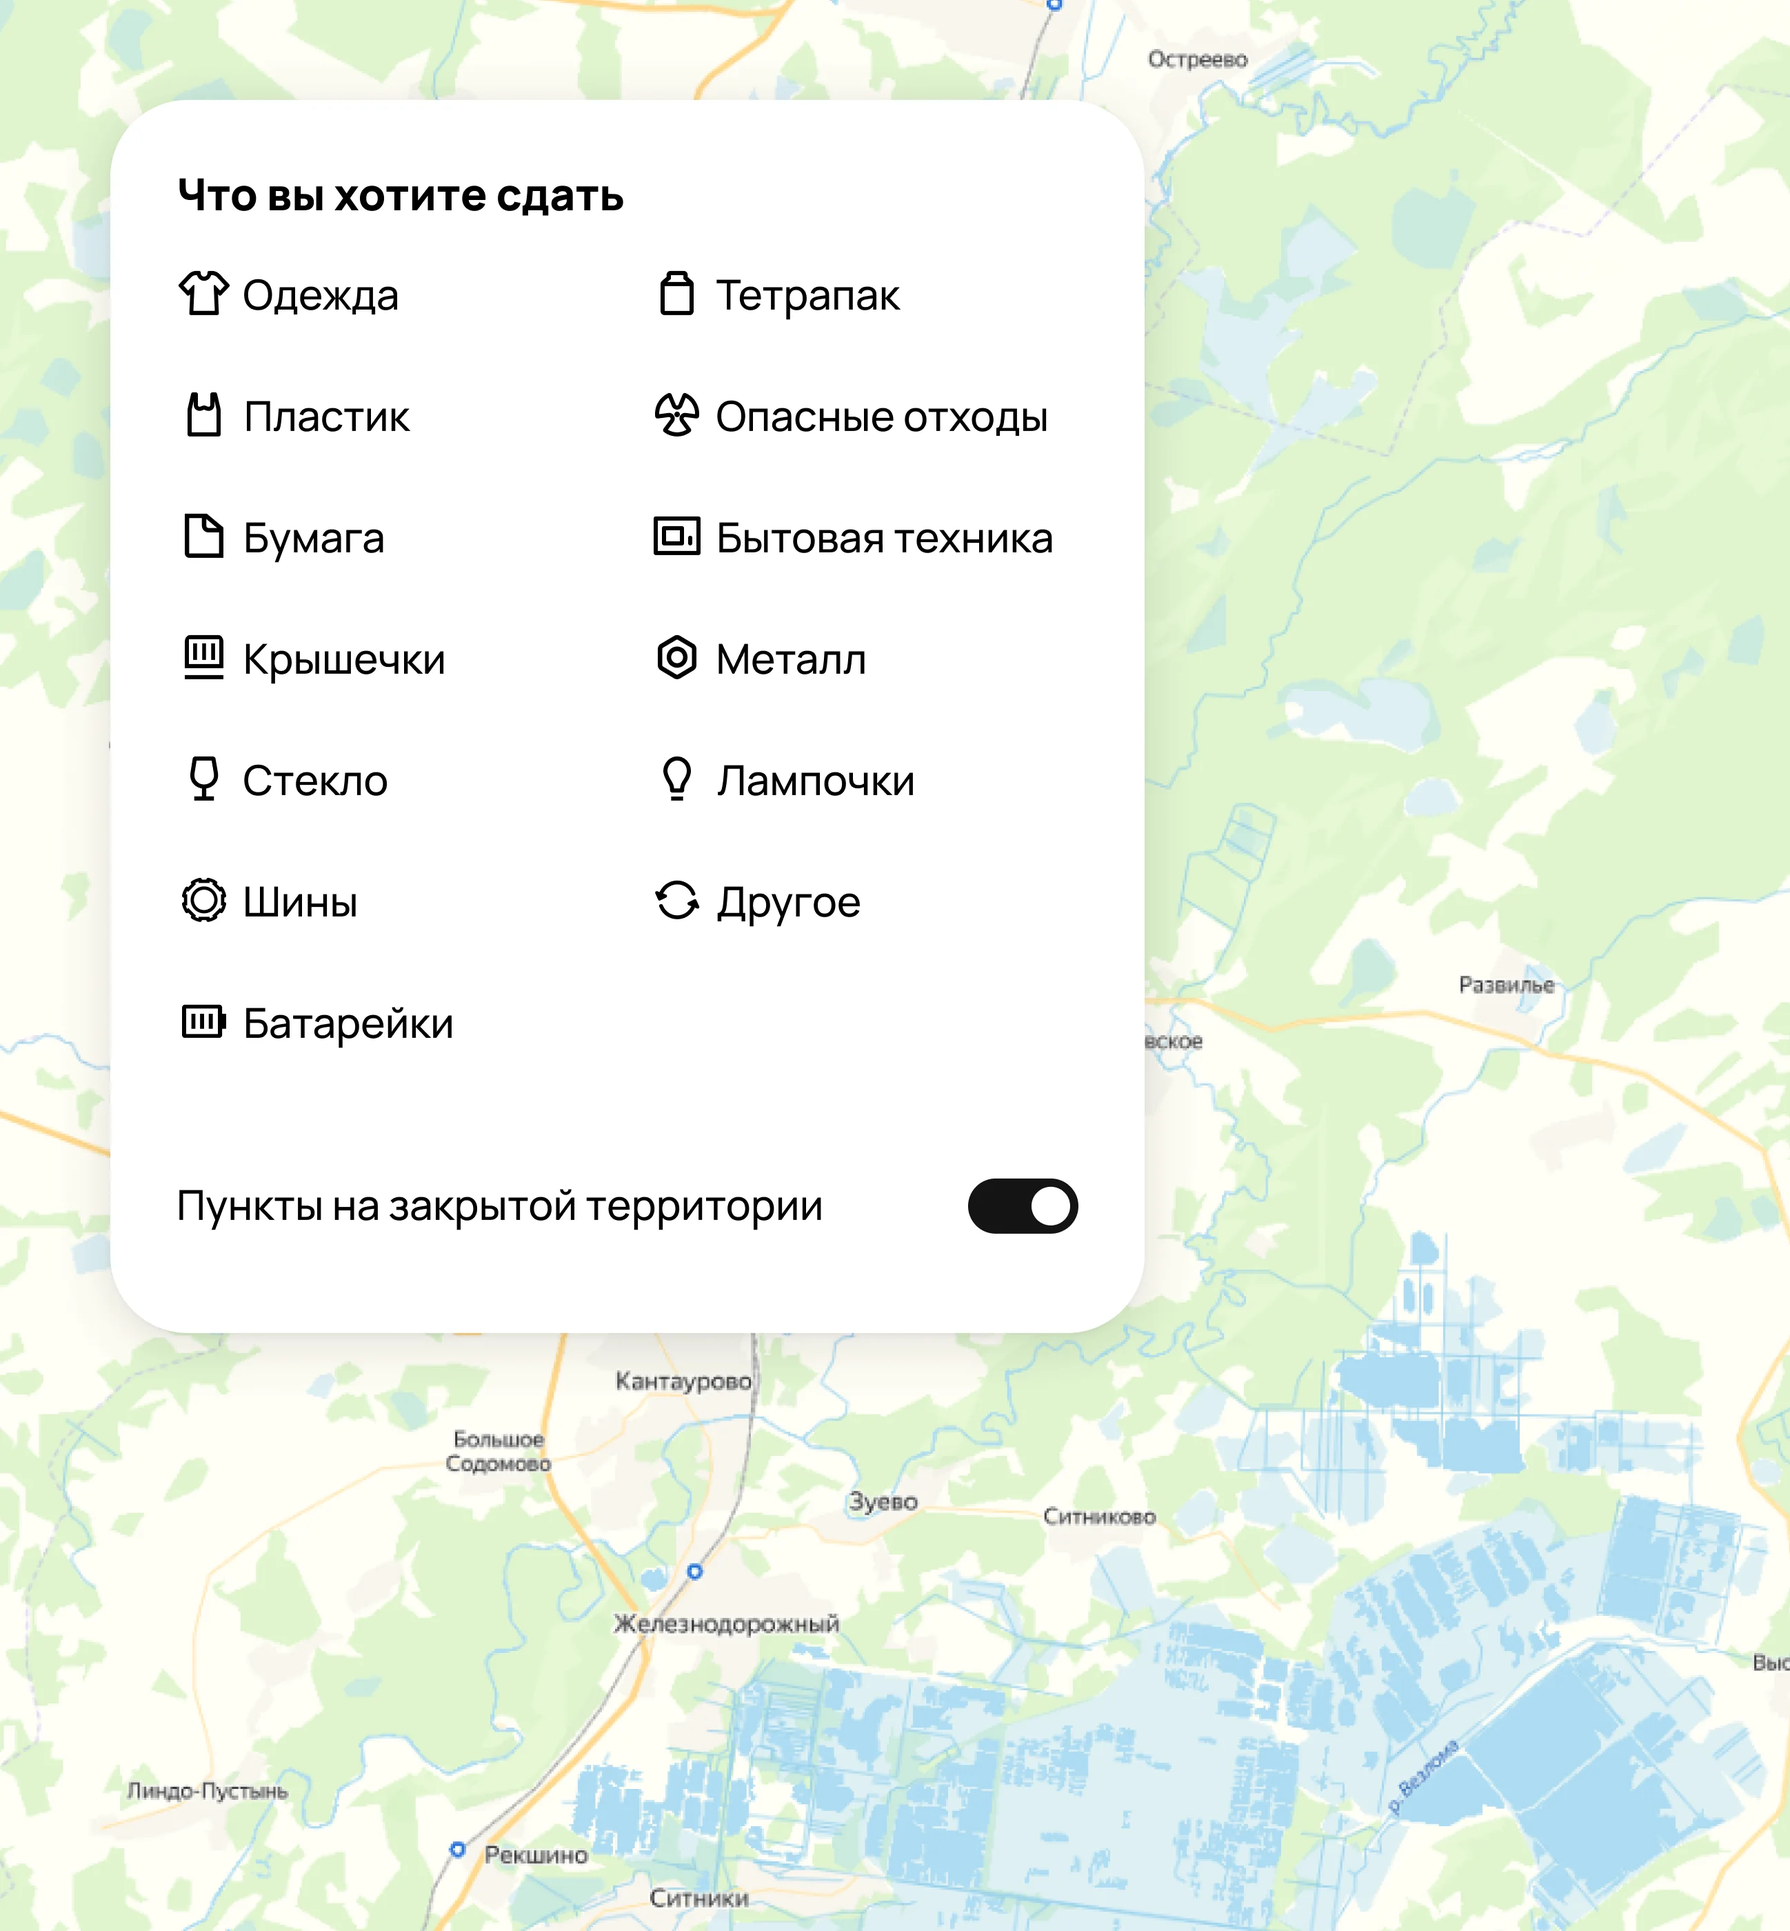
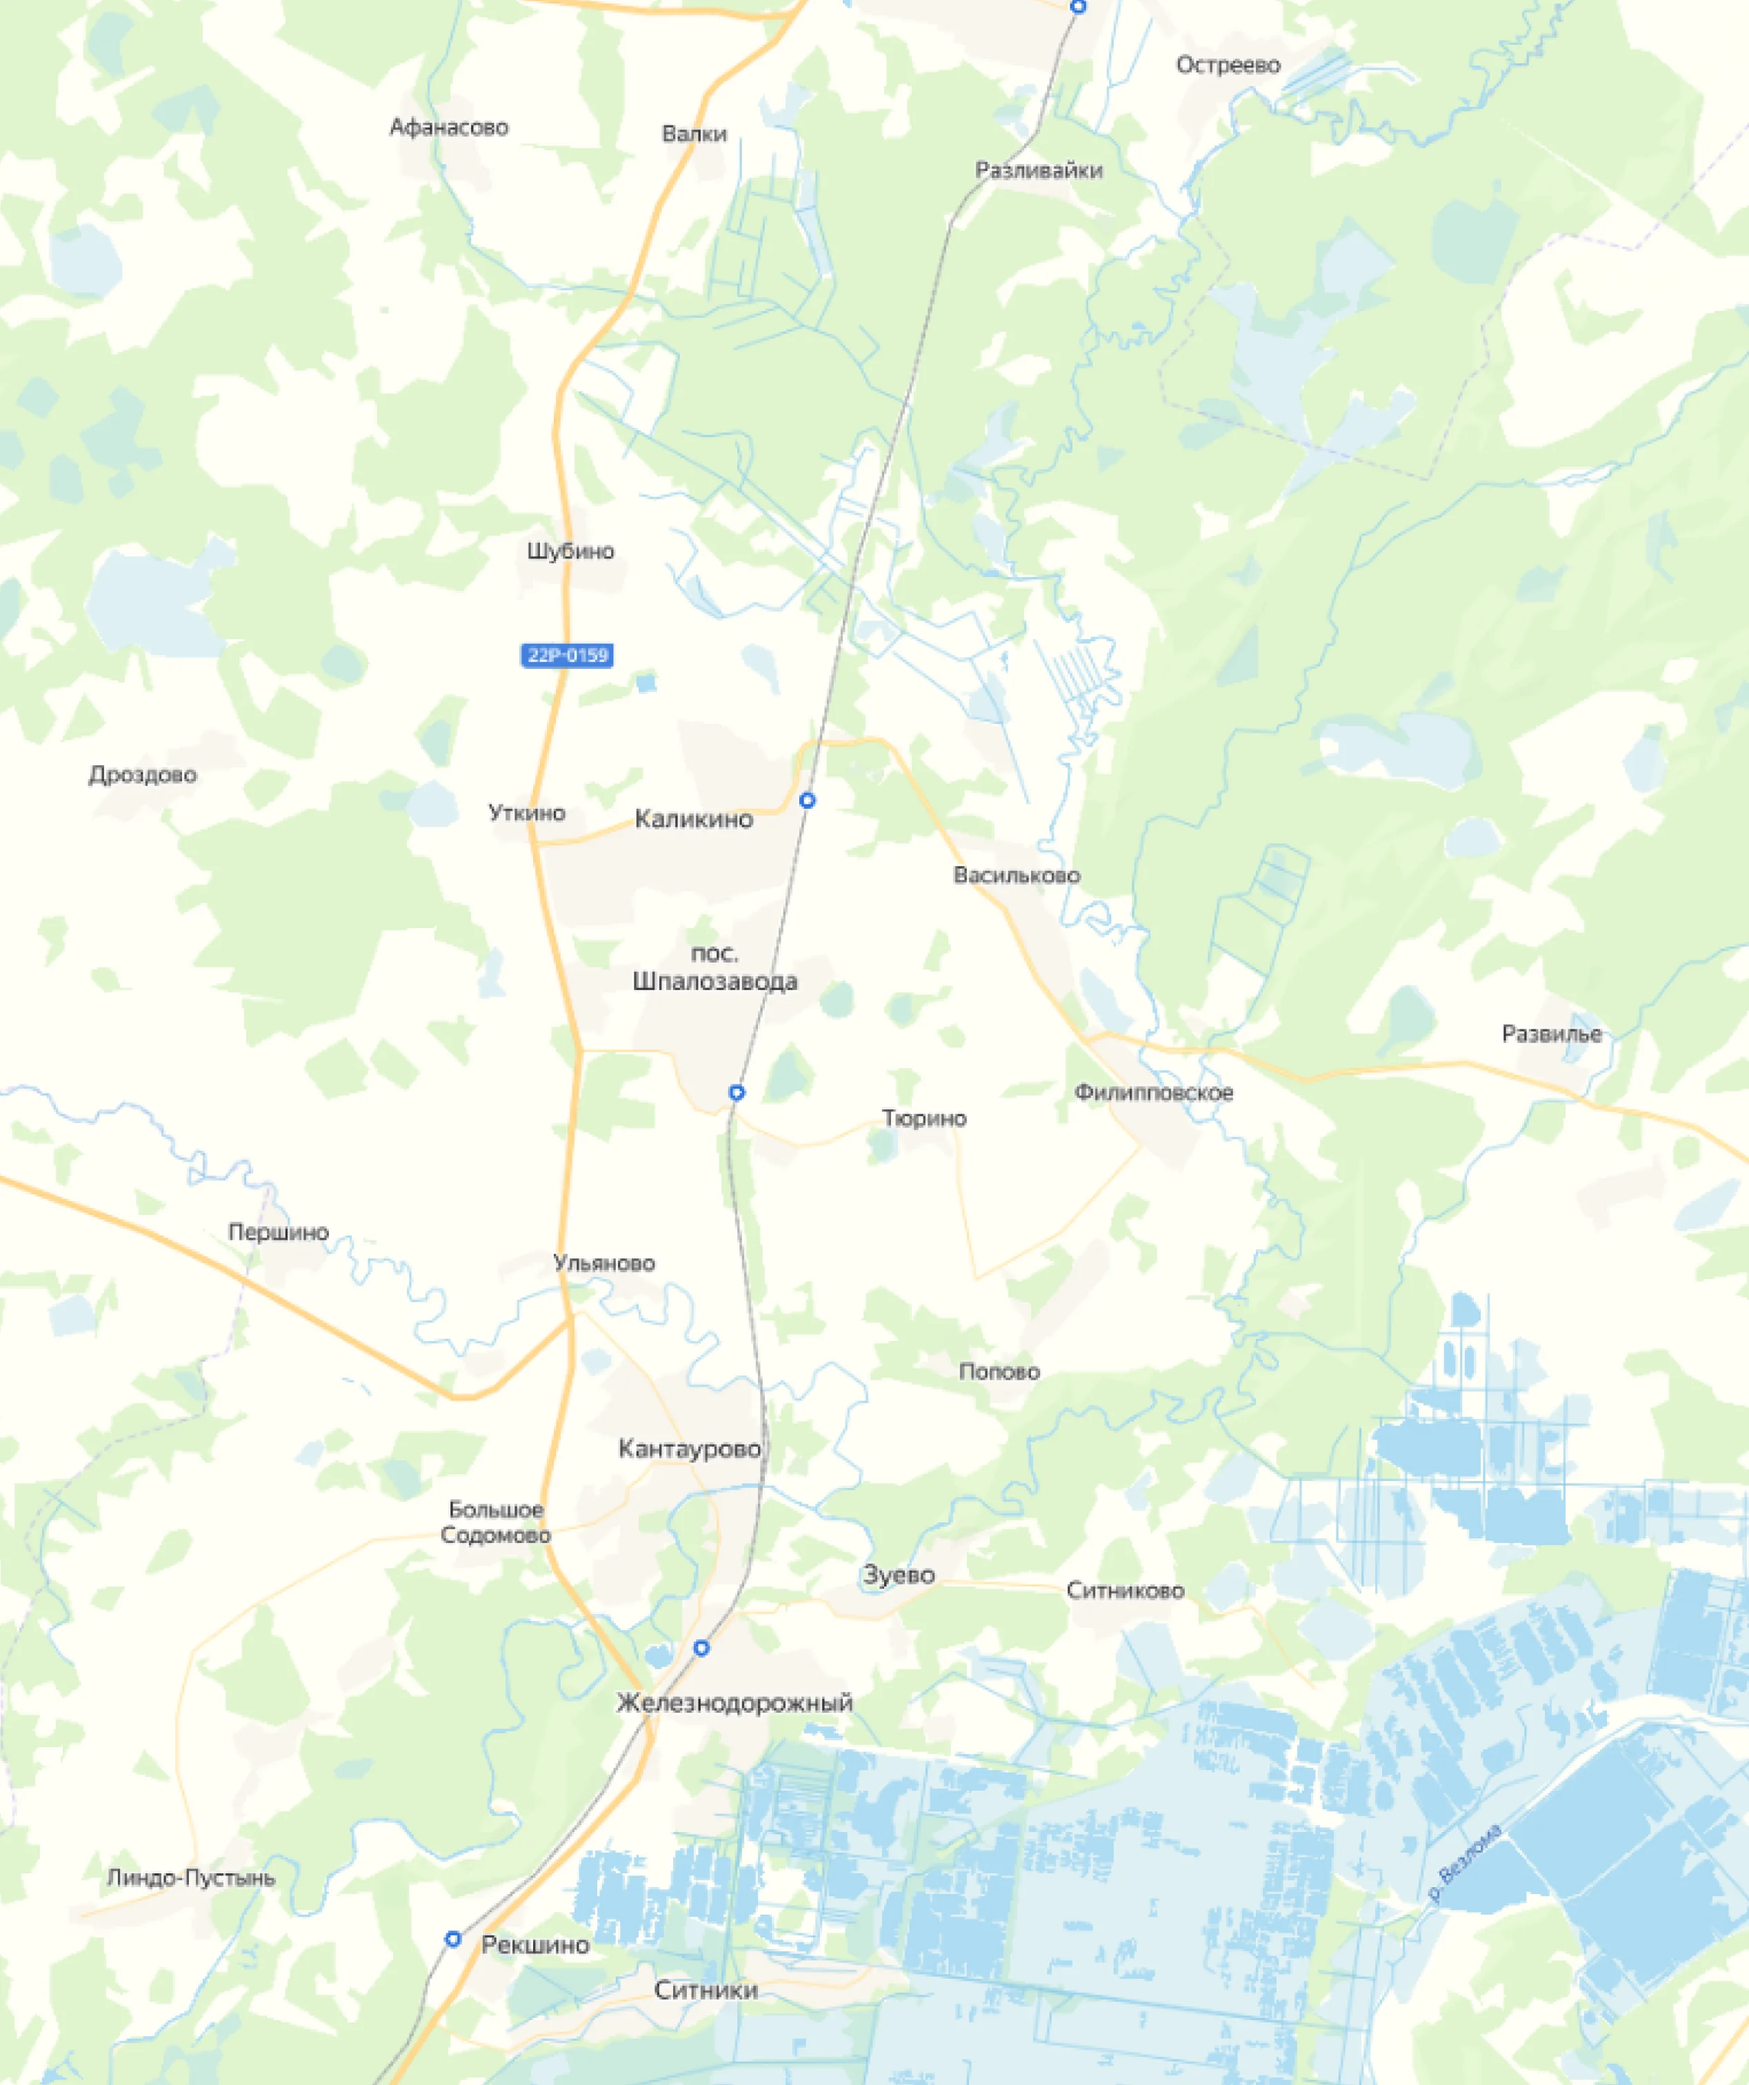
Кейс recycle-map: новый баннер «О проекте» + оверлей меню фильтров
Баннер (map.png) перезалит в лучшем разрешении. Поверх фона —
скриншот меню «Что вы хотите сдать» (.case-card__media-overlay,
новый компонент в case-cards.css): прибит вплотную к левому
верхнему углу карточки без паддингов, position:absolute top:0/left:0
(у .case-card нет border, поэтому это уже физический угол — паддинги
контента тут ни при чём), остаётся в углу при любом ресайзе.

diff --git a/styles/case-cards.css b/styles/case-cards.css
@@ -57,6 +57,15 @@
   карточки). align-items:flex-end внутри строки — если подпись в 2
   строки, а иконка ниже, иконка остаётся на одном уровне с последней
   строкой текста, а не по центру всего блока.
+
+  ─── Картинка поверх фона: .case-card__media-overlay ───────────────────
+  Второе изображение поверх .case-card__media (например, скрин UI поверх
+  фото-фона), прибито вплотную к левому верхнему углу карточки без
+  паддингов: position:absolute; top:0; left:0 — у .case-card нет border,
+  поэтому offset считается прямо от видимого угла карточки, паддинги
+  контента (которые действуют только на поток) тут ни при чём. При
+  ресайзе карточки остаётся в одном и том же углу; overflow:hidden на
+  .case-card обрезает его по скруглению.
 */
 
 :root {
@@ -158,6 +167,17 @@
   width: 48px;
   height: 48px;
   flex: 0 0 auto;
+}
+
+.case-card__media-overlay {
+  position: absolute;
+  top: 0;
+  left: 0;
+  z-index: 2;
+  display: block;
+  width: 260px;
+  max-width: 45%;
+  height: auto;
 }
 
 /* ─── Сетки ──────────────────────────────────────────────────────────── */

diff --git a/projects/recycle-map/index.html b/projects/recycle-map/index.html
@@ -24,7 +24,7 @@
 <link rel="stylesheet" href="../../styles/works-grid.css?v=11" />
 <link rel="stylesheet" href="../../styles/fonts.css?v=2" />
 <link rel="stylesheet" href="../../styles/case-blocks.css?v=26" />
-<link rel="stylesheet" href="../../styles/case-cards.css?v=3" />
+<link rel="stylesheet" href="../../styles/case-cards.css?v=4" />
 
 <style>
 /*
@@ -230,6 +230,7 @@ body {
             <div class="case-card__media">
               <img src="media/about/banner.webp" alt="" />
             </div>
+            <img class="case-card__media-overlay" src="media/about/menu.webp" alt="" aria-hidden="true" />
             <p class="case-card__subtitle text-body-lg">Карта помогает найти, куда сдать вторсырьё и вещи на благотворительность</p>
           </div>
 
